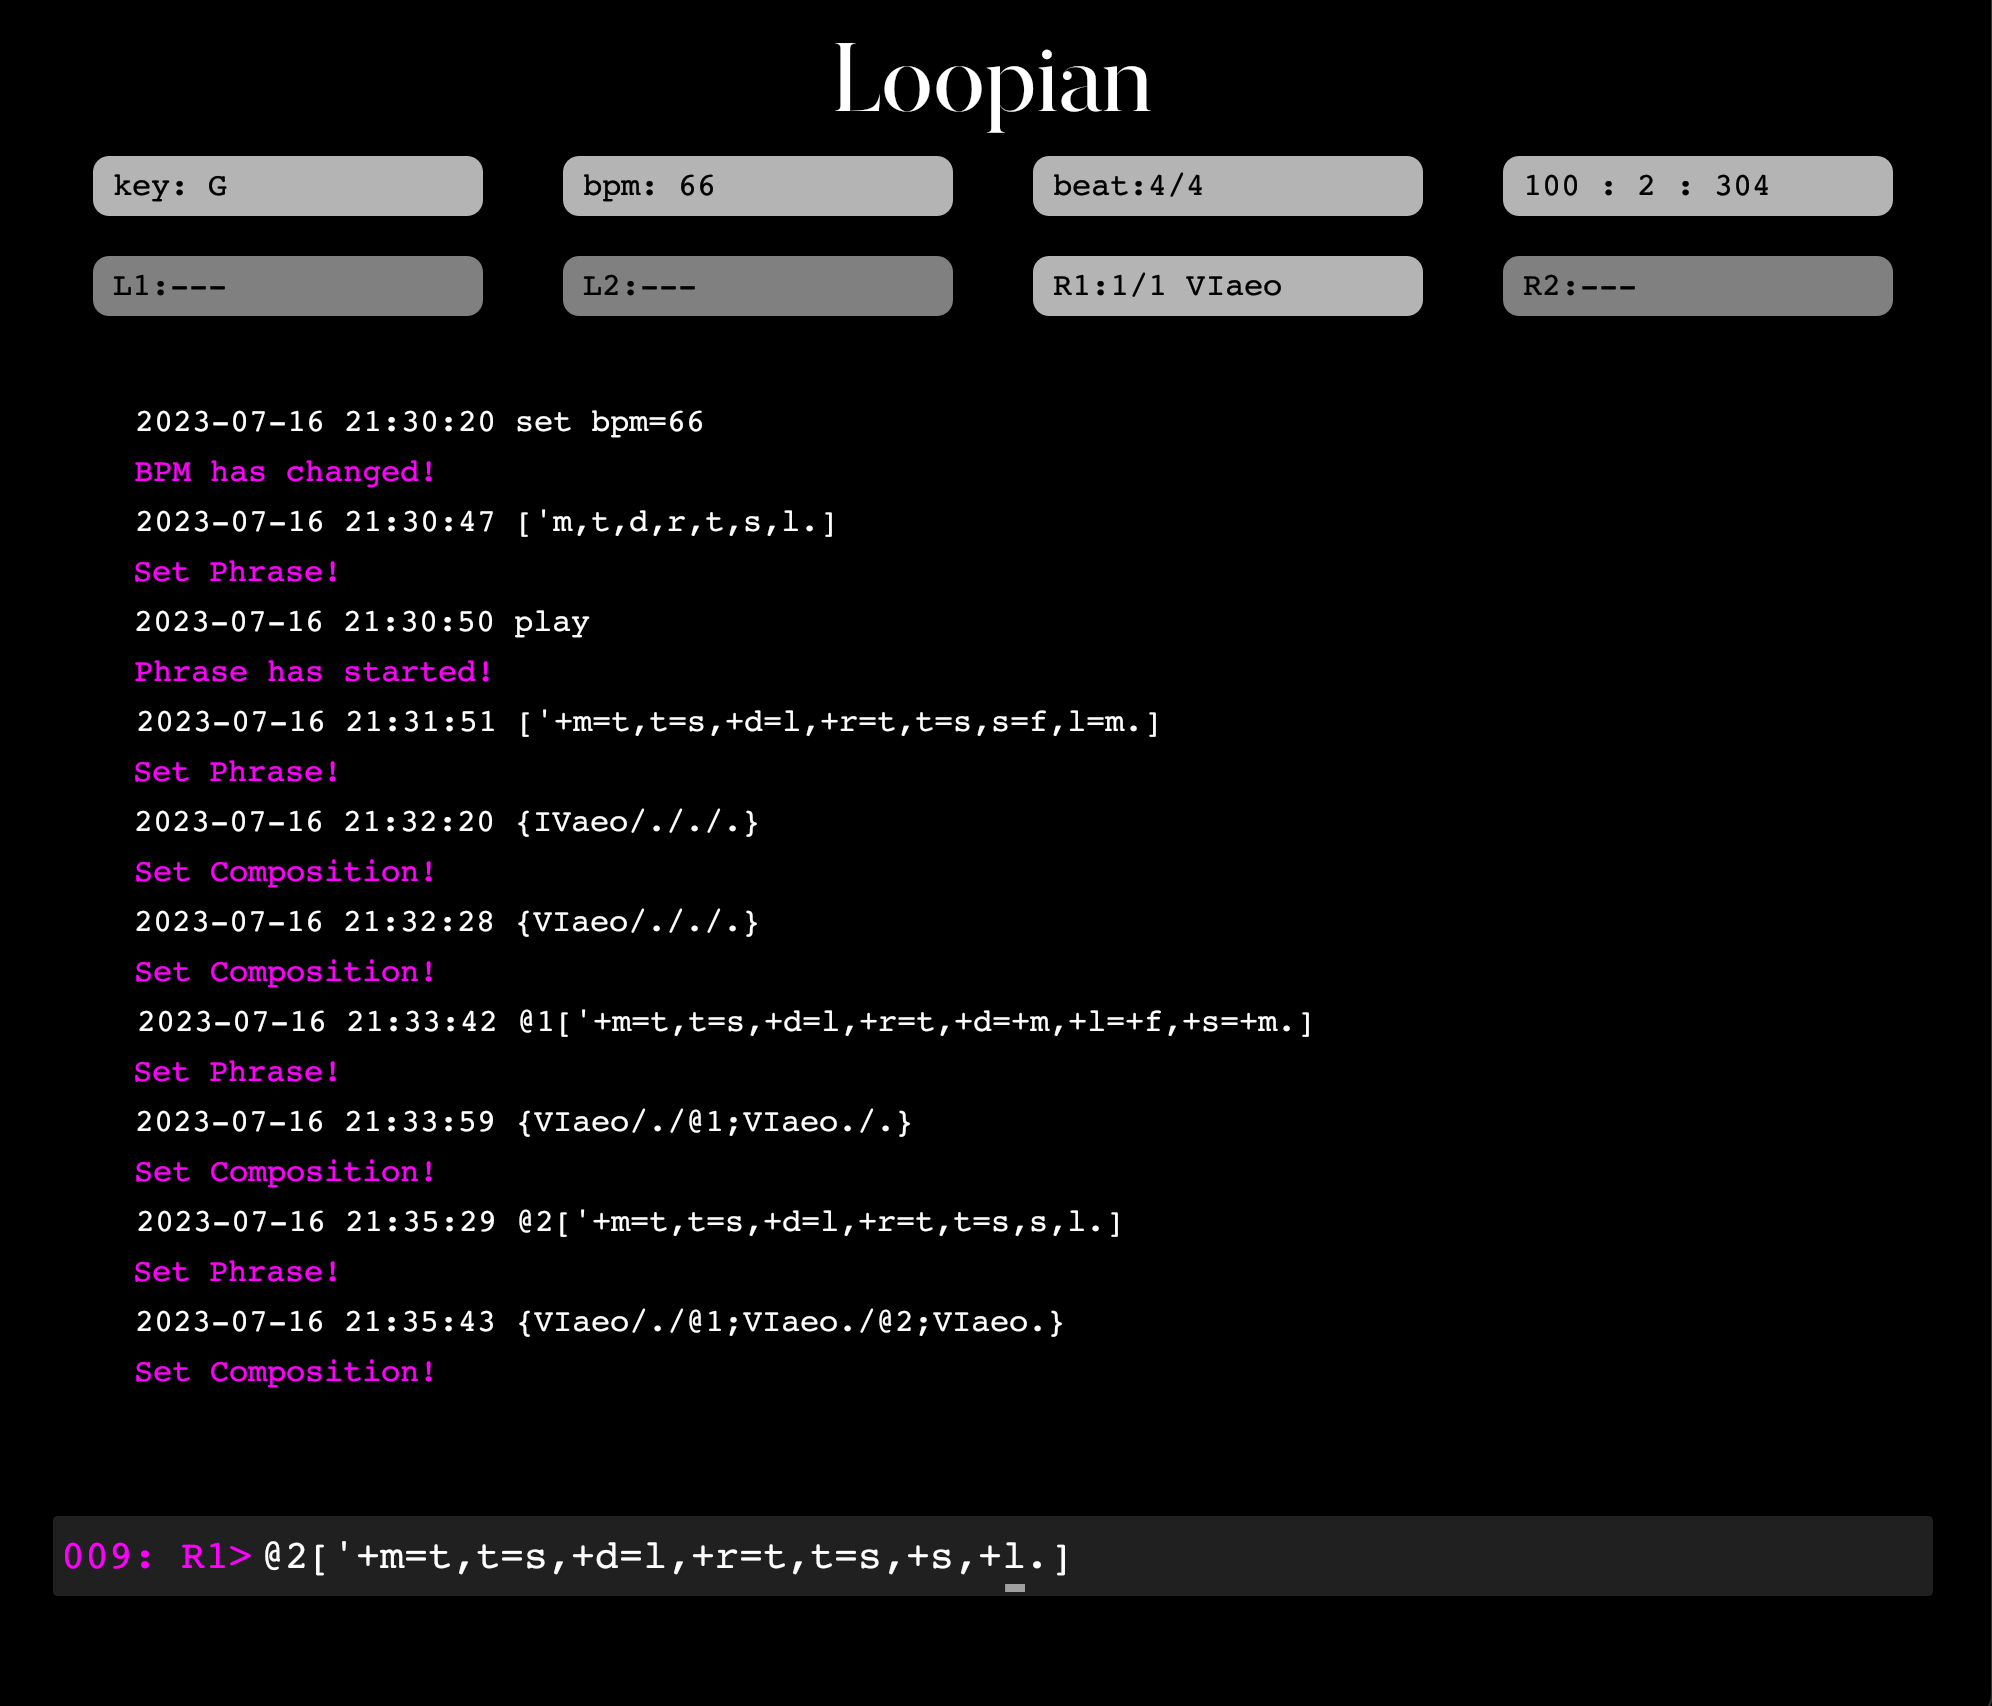
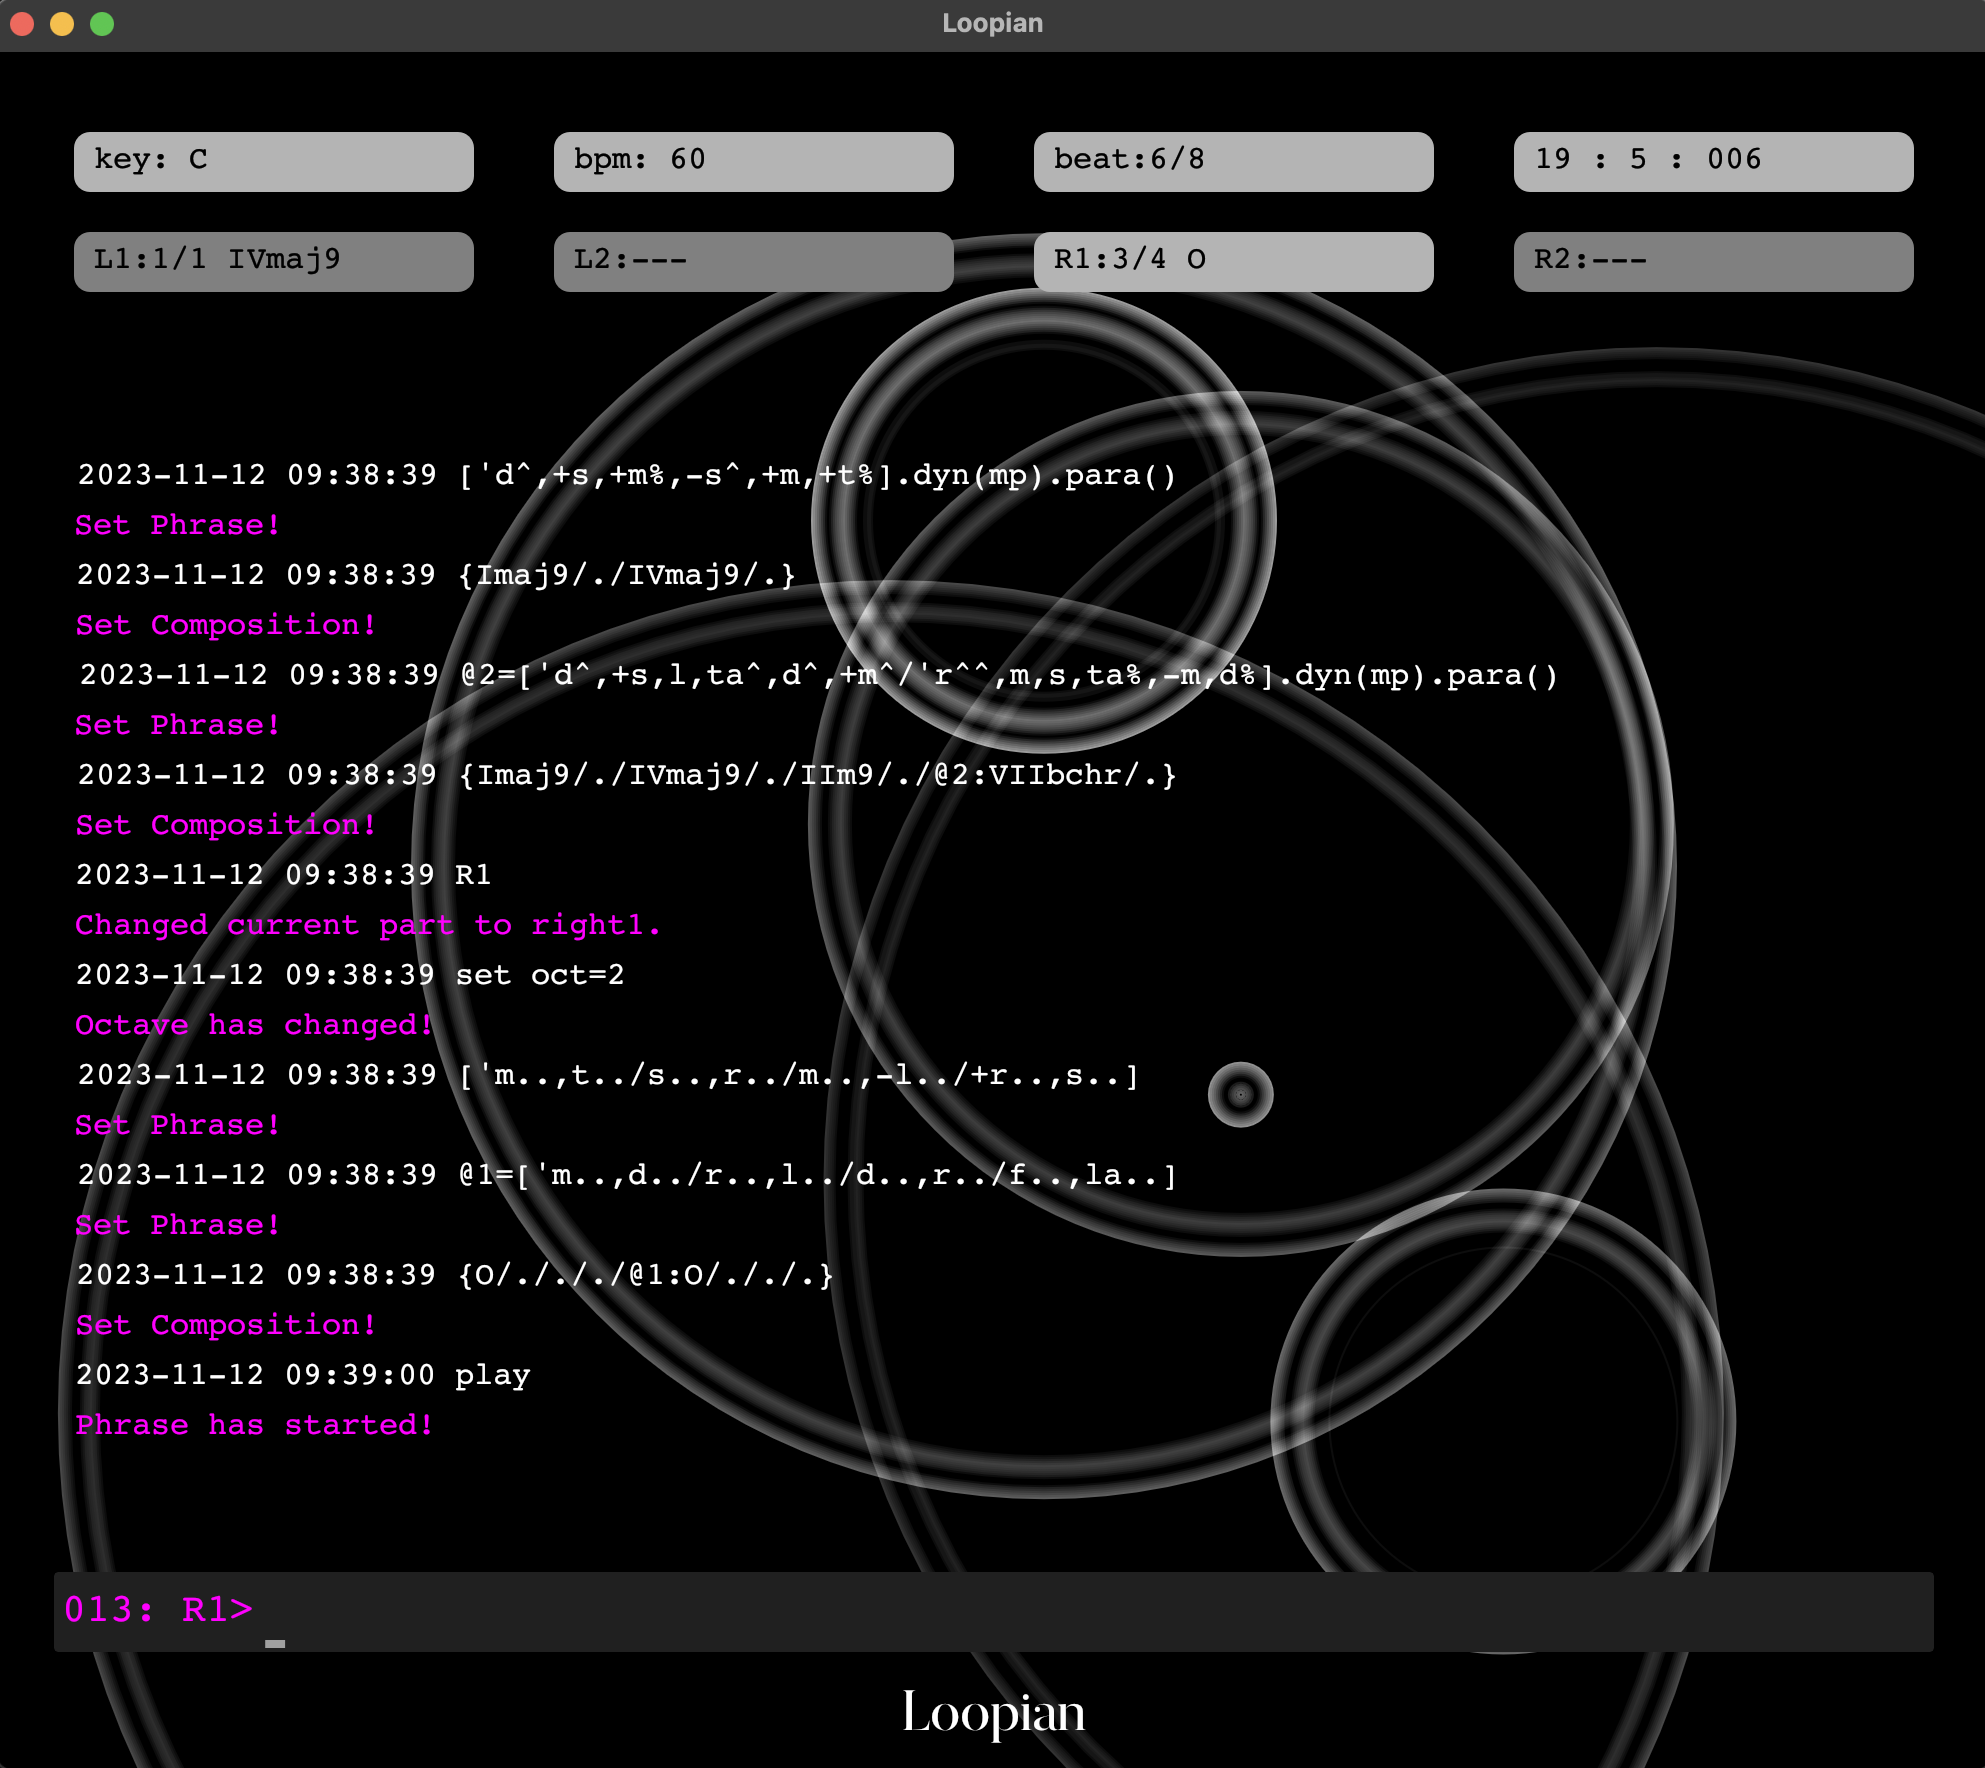
scrolltextの左マージン調整

diff --git a/src/graphic/graphic.rs b/src/graphic/graphic.rs
@@ -105,14 +105,17 @@ impl Graphic {
         const SCROLL_TXT_TOP: f32 = 200.0;    // scroll text
         const INPUT_TXT_TOP_SZ: f32 = 100.0;    // input text
         const MIN_LEFT_MERGIN: f32 = 140.0;
-        let left_mergin = (self.full_size.x - 940.0)/2.0;
+        let it_left_mergin = (self.full_size.x - 940.0)/2.0;
+        let mut st_left_mertin = 0.0;
+        if self.full_size.x > 1200.0 {st_left_mertin = 200.0;}
+        else if self.full_size.x > 1000.0 {st_left_mertin = self.full_size.x - 1000.0;}
         Resize {
             eight_indic_top: EIGHT_INDIC_TOP,
             eight_indic_left: MIN_LEFT_MERGIN,
             scroll_txt_top: SCROLL_TXT_TOP,
-            scroll_txt_left: 200.0,
+            scroll_txt_left: st_left_mertin,
             input_txt_top: self.full_size.y - INPUT_TXT_TOP_SZ,
-            input_txt_left: left_mergin,
+            input_txt_left: it_left_mergin,
         }
     }
     //*******************************************************************
